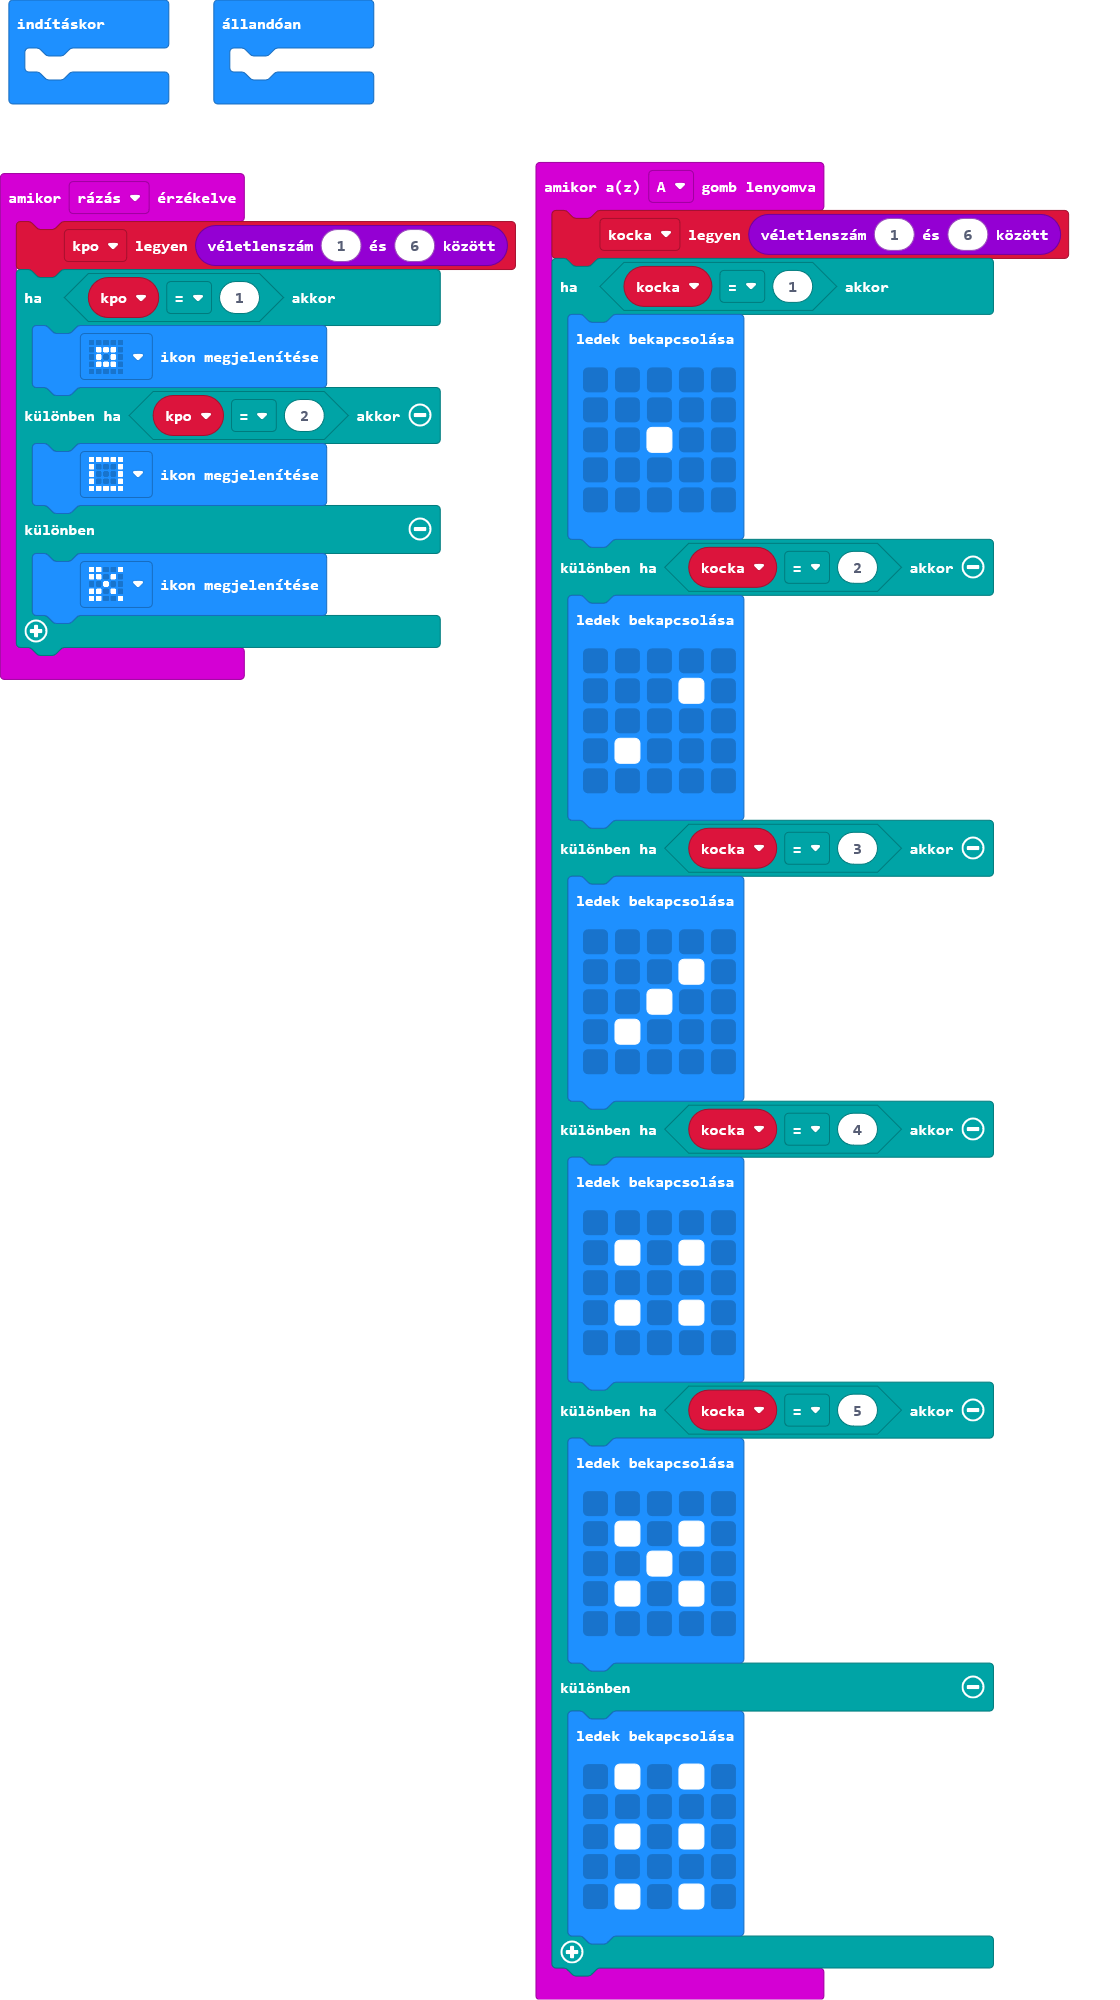
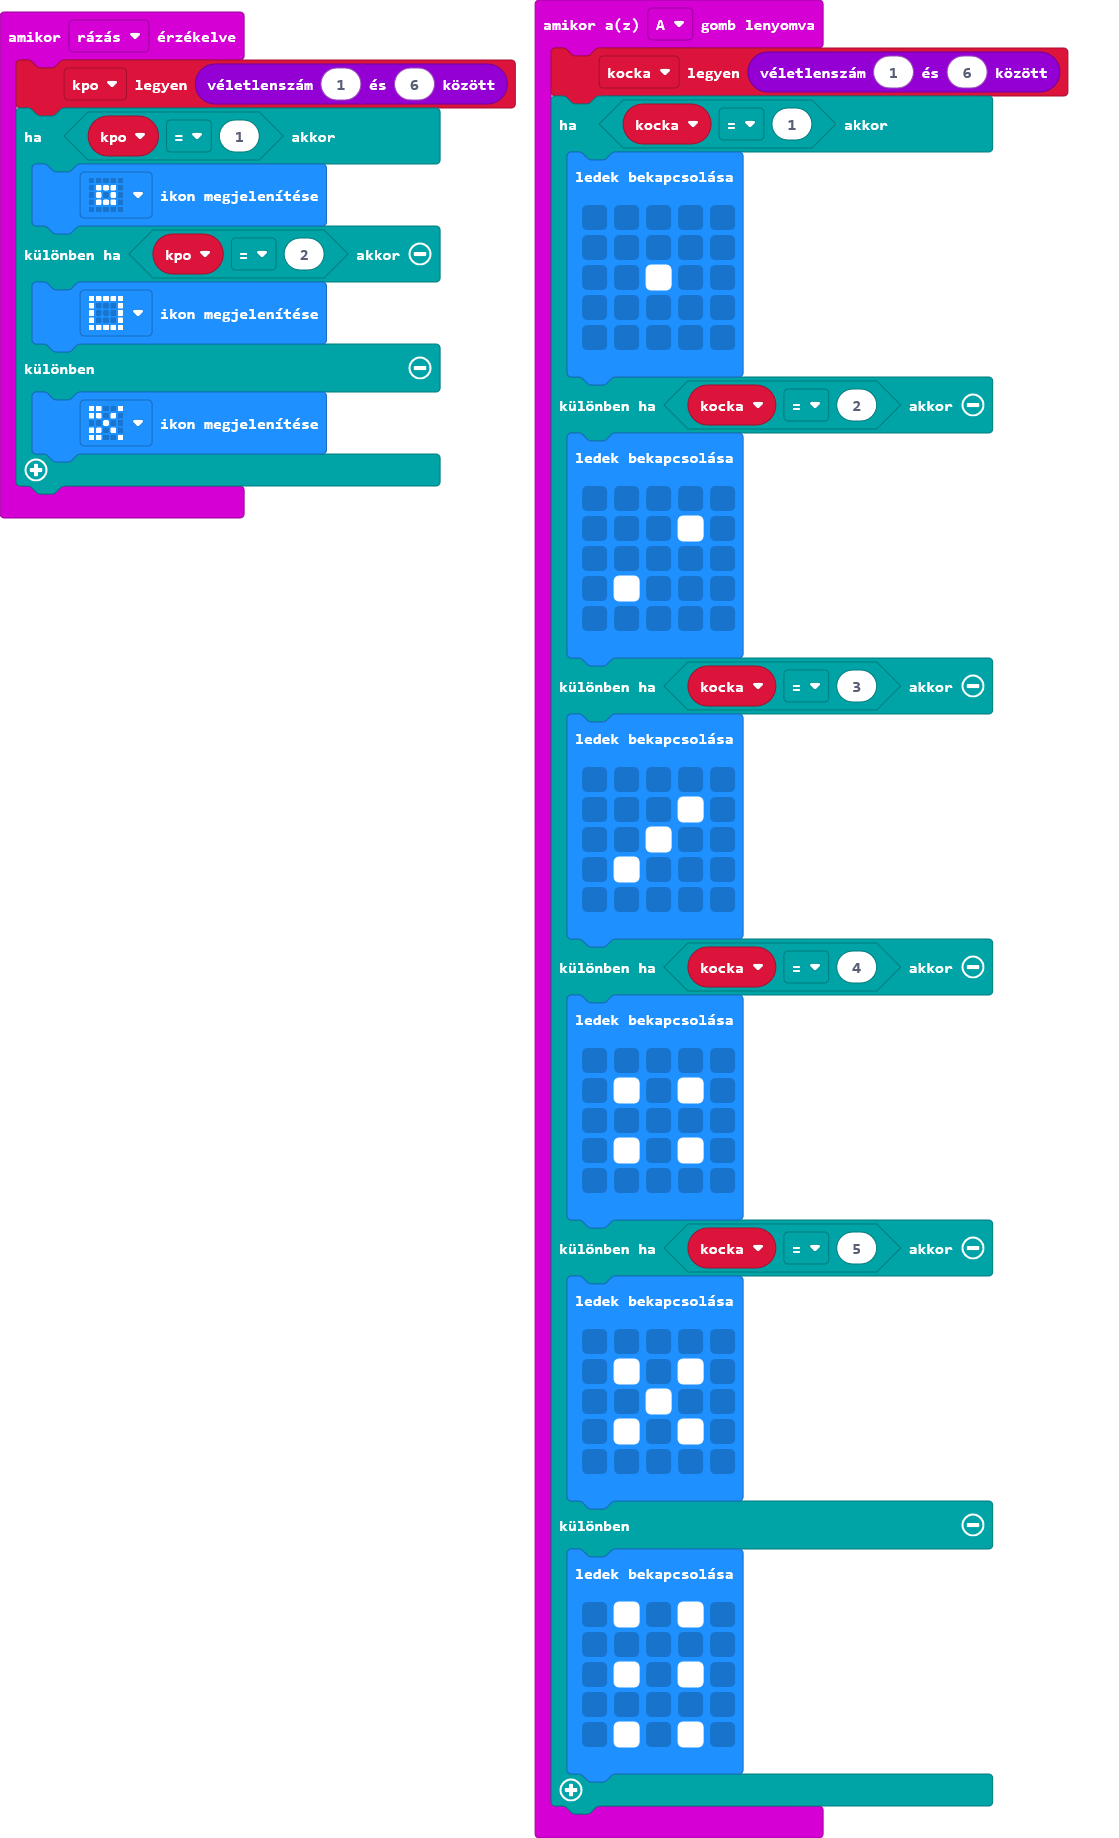
main.blocks, main.ts frissítése

Changed region(s): [[0.0, 0.0, 0.9723, 0.9924]]

diff --git a/main.ts b/main.ts
@@ -62,6 +62,3 @@ input.onGesture(Gesture.Shake, function () {
         basic.showIcon(IconNames.Scissors)
     }
 })
-basic.forever(function () {
-	
-})
